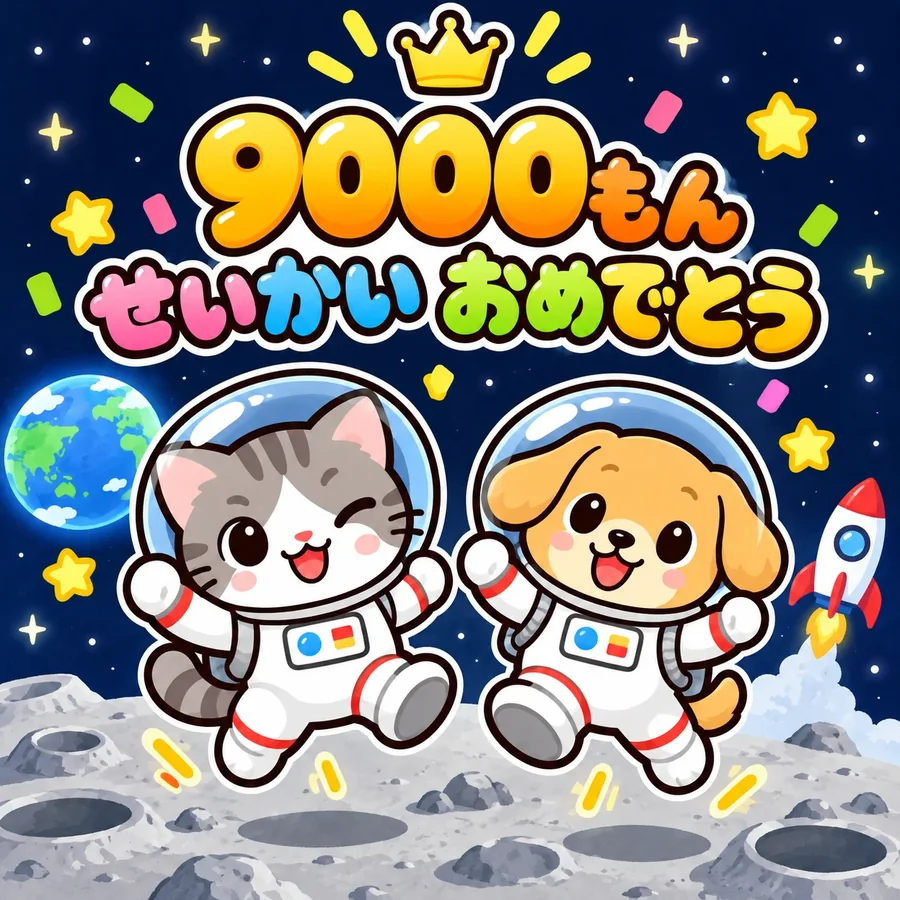
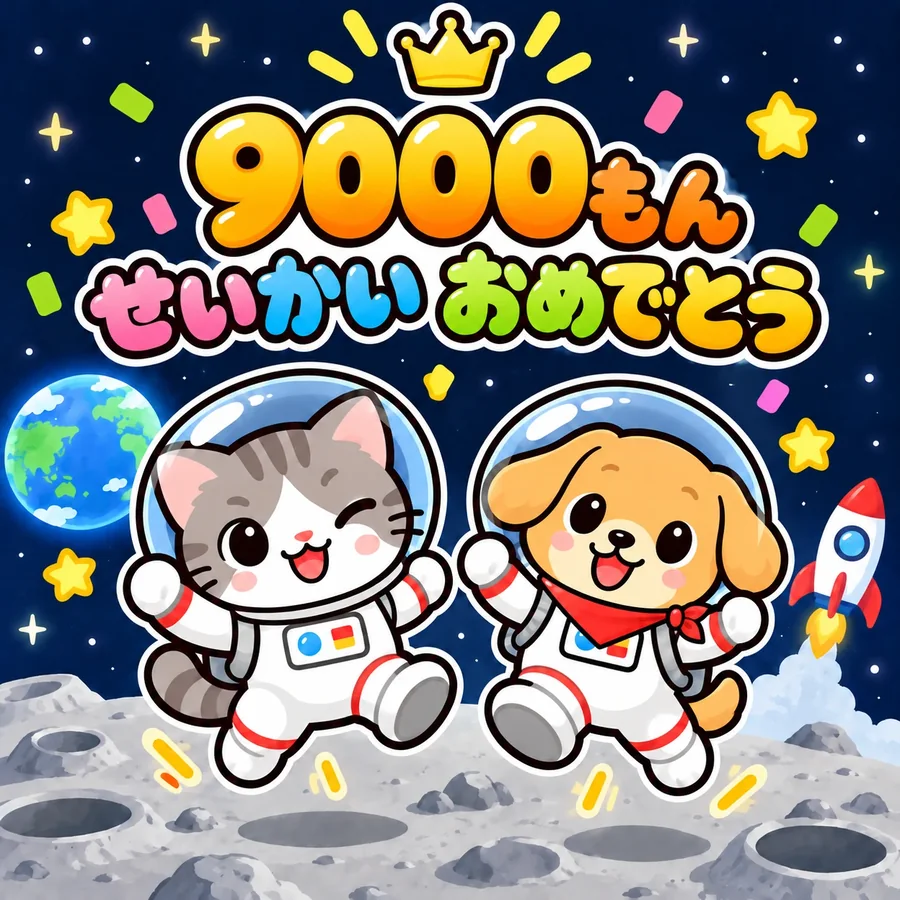
9000問の とくべつ シールの絵を差し替え（ころ に赤いバンダナ）

diff --git a/index.html b/index.html
@@ -5,10 +5,10 @@
 <link rel="icon" type="image/png" sizes="64x64" href="favicon.png?v=3">
 <link rel="apple-touch-icon" href="apple-touch-icon.png?v=3">
 <link rel="manifest" href="manifest.json">
-<script src="stickers/stickers.js?v=202610121129"></script>
-<script src="nakama/nakama.js?v=202610121129"></script>
-<script src="clock/clock.js?v=202610121129"></script>
-<script src="drill/patterns.js?v=202610121129"></script>
+<script src="stickers/stickers.js?v=202610121132"></script>
+<script src="nakama/nakama.js?v=202610121132"></script>
+<script src="clock/clock.js?v=202610121132"></script>
+<script src="drill/patterns.js?v=202610121132"></script>
 <meta name="apple-mobile-web-app-title" content="けいさん">
 <link rel="preconnect" href="https://fonts.googleapis.com">
 <link rel="preconnect" href="https://fonts.gstatic.com" crossorigin>
@@ -2572,7 +2572,7 @@ span.stkw > svg{position:absolute;left:0;top:0;width:100%;height:100%;display:bl
   const msById = id => MS_LIST.find(x=>x.id===String(id));
   const msData = () => stats.ms || (stats.ms = {got:{}});
   const totalOk = () => Object.values(stats.days||{}).reduce((a,d)=>a+((d&&d.ok)||0), 0);
-  const msImg = (it, small) => `milestone/${it.img}${small ? "_s" : ""}.webp?v=2`;   // v=2：みー と ころ だけの え に さしかえ
+  const msImg = (it, small) => `milestone/${it.img}${small ? "_s" : ""}.webp?v=3`;   // え を さしかえたら この ばんごうを あげる（ふるい え が のこらない ように）
   function msCheck(){
     if(!MS_ON) return false;
     const got = msData().got; let hit = false;
